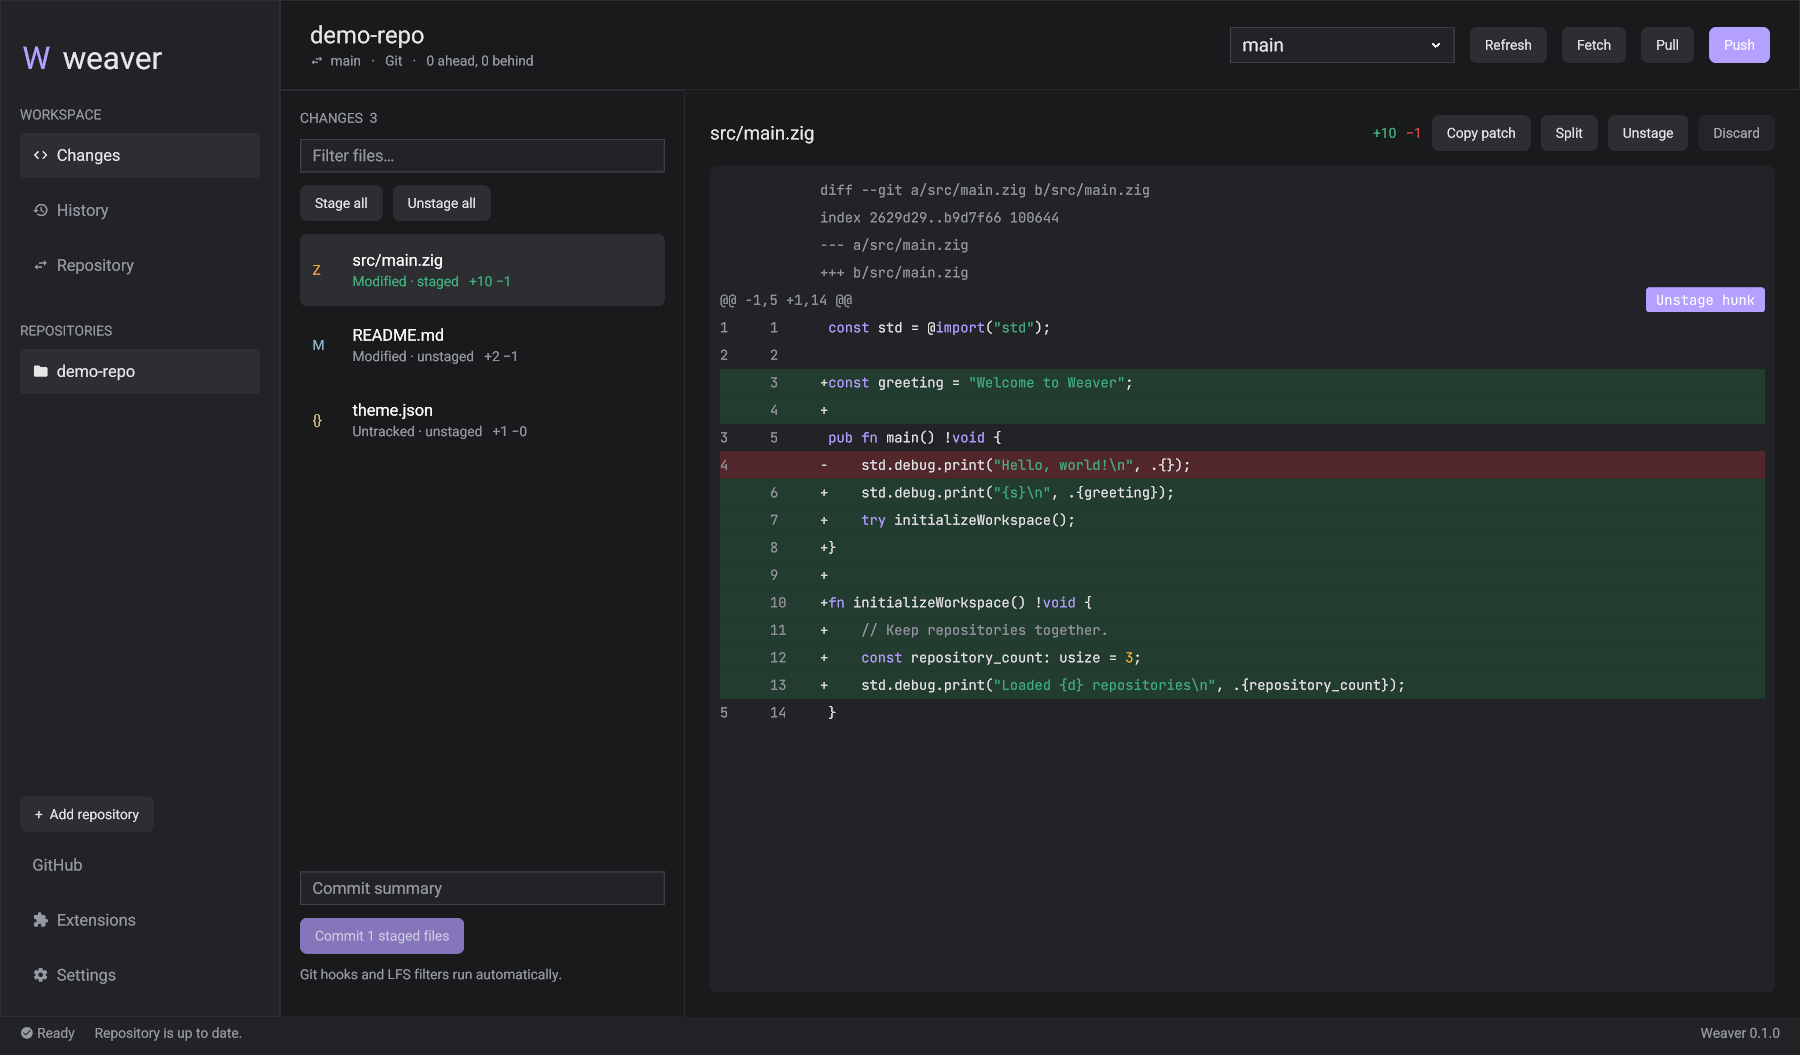
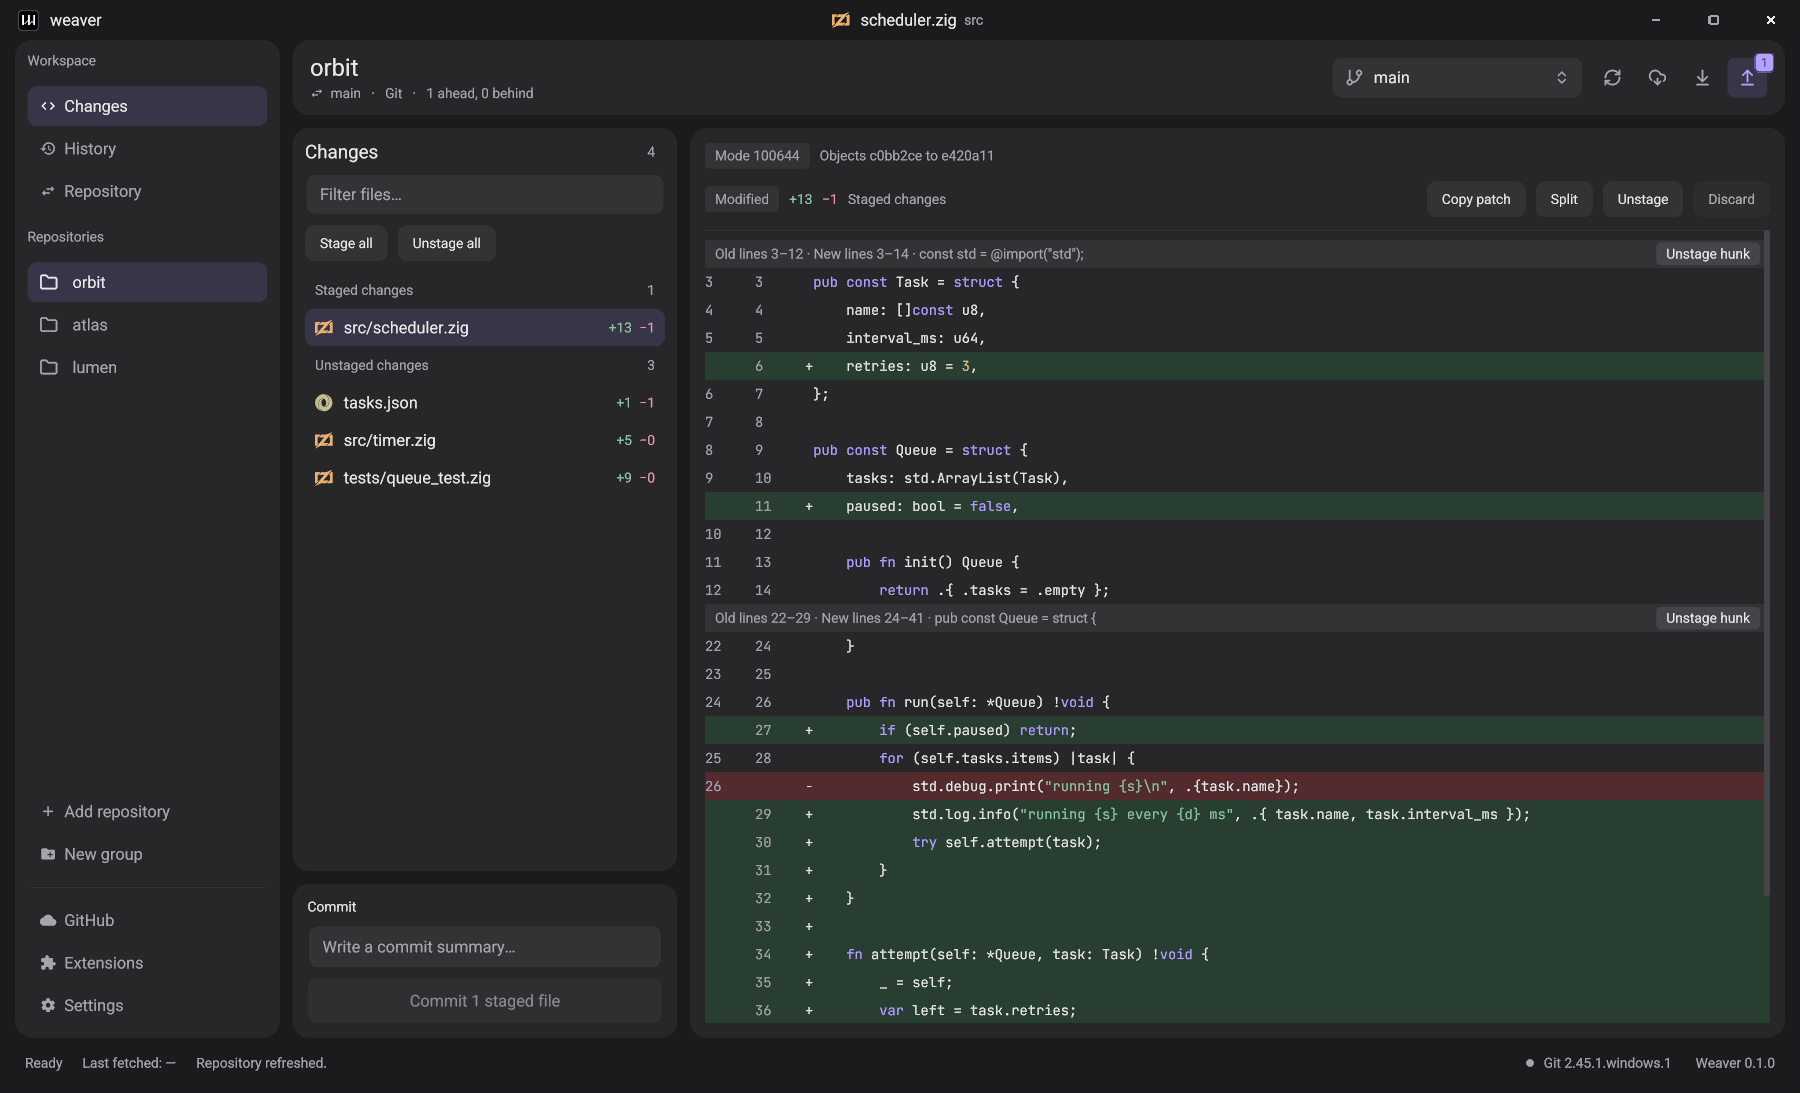
readme update and build actions

diff --git a/README.md b/README.md
@@ -1,62 +1,198 @@
 # Weaver
 
-A native version-control desktop app written in **Zig**, using **KnotsUI** for the entire interface and **libgit2** for repository metadata, history and committed diffs, with Git providing filter-aware working-tree reads. Git is the first provider behind a provider-neutral UI model. No webview or Monaco editor.
+Weaver is a fast, native Git desktop app for Windows, macOS and Linux. It is written in Zig with [KnotsUI](https://github.com/knots-ui/knots) and [libgit2](https://libgit2.org), so there is no webview or Electron runtime: one small executable that opens instantly and stays out of your way.
 
-**Development preview.** The Windows release-safety build and native screens have been checked locally. Production signing, hosted updates and macOS/Linux runtime validation remain outstanding.
+![Weaver showing staged and unstaged changes beside a highlighted diff](docs/screenshots/changes.png)
 
-## Windows preview
+[![Latest build](https://img.shields.io/github/release-date/KeoneSomers/Weaver?label=latest%20build)](https://github.com/KeoneSomers/Weaver/releases/latest)
+[![Downloads](https://img.shields.io/github/downloads/KeoneSomers/Weaver/total)](https://github.com/KeoneSomers/Weaver/releases)
+[![Build and test](https://github.com/KeoneSomers/Weaver/actions/workflows/ci.yml/badge.svg)](https://github.com/KeoneSomers/Weaver/actions/workflows/ci.yml)
+[![License: MIT](https://img.shields.io/github/license/KeoneSomers/Weaver)](LICENSE)
+[![Last commit](https://img.shields.io/github/last-commit/KeoneSomers/Weaver)](https://github.com/KeoneSomers/Weaver/commits/main)
+[![Commit activity](https://img.shields.io/github/commit-activity/m/KeoneSomers/Weaver)](https://github.com/KeoneSomers/Weaver/graphs/commit-activity)
+[![Contributors](https://img.shields.io/github/contributors/KeoneSomers/Weaver)](https://github.com/KeoneSomers/Weaver/graphs/contributors)
+[![Stars](https://img.shields.io/github/stars/KeoneSomers/Weaver)](https://github.com/KeoneSomers/Weaver/stargazers)
+[![Open issues](https://img.shields.io/github/issues/KeoneSomers/Weaver)](https://github.com/KeoneSomers/Weaver/issues)
+[![Top language](https://img.shields.io/github/languages/top/KeoneSomers/Weaver)](https://github.com/KeoneSomers/Weaver)
+[![Code size](https://img.shields.io/github/languages/code-size/KeoneSomers/Weaver)](https://github.com/KeoneSomers/Weaver)
+![Zig 0.17.0](https://img.shields.io/badge/Zig-0.17.0-f7a41d?logo=zig&logoColor=white)
+![Platforms](https://img.shields.io/badge/platforms-Windows%20%7C%20macOS%20%7C%20Linux-blue)
 
-Extract `dist/Weaver-0.1.0-preview-windows-x86_64.zip` and run `weaver.exe` inside its folder. Install Git, Git LFS and curl, then add a repository in Weaver. This portable preview is unsigned; the release pipeline and stable installer bootstrap need your signing and GitHub configuration before public distribution.
+> **Development preview.** Weaver is usable day to day but still young. Windows is the most tested platform; macOS and Linux build from the same source and have had less testing. Please [open an issue](https://github.com/KeoneSomers/Weaver/issues) if something does not work on your machine.
 
-## Build
+## Download
 
-Requires Zig **0.17.0**. KnotsUI, libgit2 **1.9.7**, Native File Dialog Extended **1.4.1** and their dependencies are pinned in `build.zig.zon`; `zig build` fetches them and compiles libgit2 and the file dialog from source into a self-contained executable. Knots follows Zig development; keep the compiler and library revisions together. Update a dependency with `zig fetch --save=<name> <url>`.
+These links always point at the newest build; the [latest release](https://github.com/KeoneSomers/Weaver/releases/latest) is rebuilt automatically for every change on `main`.
+
+| Platform | Download | How to run |
+| --- | --- | --- |
+| Windows (x64) | [`Weaver-windows-x86_64.zip`](https://github.com/KeoneSomers/Weaver/releases/latest/download/Weaver-windows-x86_64.zip) | Extract the folder and run `weaver.exe`. |
+| macOS (Apple Silicon) | [`Weaver-macos-aarch64.dmg`](https://github.com/KeoneSomers/Weaver/releases/latest/download/Weaver-macos-aarch64.dmg) | Open the disk image and drag Weaver to Applications. |
+| macOS (Intel) | [`Weaver-macos-x86_64.dmg`](https://github.com/KeoneSomers/Weaver/releases/latest/download/Weaver-macos-x86_64.dmg) | Open the disk image and drag Weaver to Applications. |
+| Linux (x64, Wayland) | [`Weaver-linux-x86_64.tar.gz`](https://github.com/KeoneSomers/Weaver/releases/latest/download/Weaver-linux-x86_64.tar.gz) | Extract and run `bin/weaver`. |
+
+The downloads are not code-signed yet, so your system will warn you the first time:
+
+- **Windows:** on the SmartScreen prompt choose **More info**, then **Run anyway**.
+- **macOS:** after the first blocked launch, open **System Settings → Privacy & Security** and choose **Open Anyway**, or run `xattr -dr com.apple.quarantine /Applications/Weaver.app`.
+
+Weaver uses the Git you already have installed, so install [Git](https://git-scm.com/downloads) first (and Git LFS for repositories that use it). Linux also needs a Wayland session, a Vulkan 1.3 driver and `xdg-desktop-portal`; the build is made on Ubuntu 24.04, so older distributions may need to build from source. `SHA256SUMS.txt` in the release lists the checksums.
+
+## Features
+
+**Repositories**
+
+- Add, initialize or clone repositories, or drag a folder into the window. Linked worktrees open directly.
+- Keep many repositories in the sidebar, reorder them and sort them into groups.
+- Sign in to GitHub in one click through Git Credential Manager and clone your public or private repositories over HTTPS or SSH.
+
+**Changes and diffs**
+
+- Staged and unstaged changes in separate lists, with file-type icons and added/removed line counts.
+- Syntax-highlighted diffs in unified or side-by-side view.
+- Stage or unstage whole files, single hunks or everything at once, then commit.
+- Right-click a file to open it in your editor, reveal its folder, copy its path, add it to `.gitignore`, or discard its changes (with confirmation).
+
+![Side-by-side diff view](docs/screenshots/split.png)
+
+**Branches and history**
+
+- Create, switch, publish and delete branches from a native branch picker.
+- Fetch, pull and push from the toolbar, with badges showing how many commits you are ahead or behind.
+- Merge, rebase, cherry-pick, revert, stash and tag.
+- Browse commit history and each commit's diff.
+- Resolve conflicts in the app: inspect the markers, keep either side, then continue or abort.
+
+**Guidance when things go wrong**
+
+- A repository without a remote gets a banner and a dialog that adds `origin` and pushes straight away.
+- A failed push, pull, fetch or clone opens a dialog with Git's output and the next step to take.
+
+**Git LFS**
+
+- Set up LFS, track file types, and view transfers, status and locks.
+
+**Look and feel**
+
+- Eleven themes, eight dark and three light, with twelve accent colors.
+- Resizable panels and a custom title bar.
+- Optional background fetch every five minutes, off by default.
+
+**Extensions**
+
+- Add commands and settings with small executables that speak JSON over standard input and output, written in any language. See the [extension API](docs/extensions.md).
+
+**Safe by design**
+
+- Git commands are passed as argument arrays; repository content is never interpreted by a shell.
+- Credentials stay in the operating system's credential store, never in settings or remote URLs.
+- Your Git hooks, commit signing and LFS filters keep working because Weaver uses your Git configuration.
+- Weaver never force-pushes, hard-resets or deletes untracked files on its own, and destructive actions ask first.
+
+## Build from source
+
+The only build tool you need is **Zig 0.17.0**. Everything else (KnotsUI, libgit2, the native file dialog) is pinned in `build.zig.zon`; `zig build` downloads and compiles it for you. The first build takes a couple of minutes.
 
 ```sh
-zig build
+git clone https://github.com/KeoneSomers/Weaver.git
+cd Weaver
 zig build run
 ```
 
-Linux additionally needs `pkg-config`, `wayland-scanner`, and the development packages for Wayland, `wayland-protocols`, xkbcommon and D-Bus. Running Weaver needs a Wayland session, a desktop portal with a FileChooser backend, and a Vulkan 1.3 driver. macOS uses WebGPU.
+To build an optimized executable instead, run `zig build -Doptimize=ReleaseSafe`. The result is `zig-out/bin/weaver` (`weaver.exe` on Windows). Pass a folder to open it on launch: `zig-out/bin/weaver /path/to/repository`.
 
-Runtime requirements: Git, curl, and Git LFS for LFS repositories. Existing Git credential helpers, SSH configuration and agents remain available. GitHub sign-in needs Git Credential Manager, which Git for Windows includes; install it separately on macOS and Linux. Linux secure GitHub storage requires `secret-tool`. Tokens never go in settings or remote URLs.
+Weaver needs the exact Zig version above, because KnotsUI tracks Zig closely. Get it from [ziglang.org/download](https://ziglang.org/download/) or with a version manager such as [zvm](https://github.com/tristanisham/zvm) (`zvm install 0.17.0`).
 
-```text
-zig build test -Dheadless=true
-zig build test-ui
-zig build check -Dheadless=true
+At run time Weaver uses the **Git** you already have installed, plus **curl**, and **Git LFS** for repositories that use it.
+
+### Windows
+
+1. Install [Git for Windows](https://git-scm.com/download/win). It includes Git LFS, curl and Git Credential Manager.
+2. Install Zig 0.17.0.
+3. Run `zig build run` in the cloned folder.
+
+No Visual Studio or other compiler is needed.
+
+### macOS
+
+1. Install the Xcode Command Line Tools, which provide Git and the system frameworks:
+
+   ```sh
+   xcode-select --install
+   ```
+
+2. Install Zig 0.17.0.
+3. Run `zig build run` in the cloned folder.
+
+Optional: `brew install git-lfs` for LFS repositories, and `brew install --cask git-credential-manager` for one-click GitHub sign-in.
+
+### Linux
+
+Weaver needs a **Wayland** session (KnotsUI has no X11 backend yet), a **Vulkan 1.3** driver, and a desktop portal with a file chooser (`xdg-desktop-portal`, which GNOME and KDE install by default).
+
+1. Install the build packages for your distribution:
+
+   ```sh
+   # Debian, Ubuntu
+   sudo apt install git git-lfs curl pkg-config libwayland-dev wayland-protocols libxkbcommon-dev libdbus-1-dev libvulkan1
+   ```
+
+   ```sh
+   # Fedora
+   sudo dnf install git git-lfs curl pkgconf-pkg-config wayland-devel wayland-protocols-devel libxkbcommon-devel dbus-devel vulkan-loader
+   ```
+
+   ```sh
+   # Arch
+   sudo pacman -S --needed git git-lfs curl pkgconf wayland wayland-protocols libxkbcommon dbus vulkan-icd-loader
+   ```
+
+2. Install Zig 0.17.0.
+3. Run `zig build run` in the cloned folder.
+
+`zig build` also installs a desktop entry and icons under `zig-out/share`. Optional: install [Git Credential Manager](https://github.com/git-ecosystem/git-credential-manager/blob/main/docs/install.md) and `secret-tool` (`libsecret-tools` on Debian and Ubuntu) for one-click GitHub sign-in.
+
+### Troubleshooting
+
+- **Zig reports a version mismatch or unfamiliar compile errors.** Check `zig version` prints `0.17.0`.
+- **A dependency fails to download.** The first build needs network access to GitHub and gitlab.freedesktop.org. Run `zig build` again to retry.
+- **Linux: `wayland-scanner` or a `.pc` file is not found.** One of the packages above is missing.
+- **Linux: the window does not open.** Check you are in a Wayland session (`echo $XDG_SESSION_TYPE`) and that `vulkaninfo` reports Vulkan 1.3.
+
+## Development
+
+```sh
+zig build test -Dheadless=true   # backend tests: Git, diffs, security, persistence
+zig build test-ui                # pointer routing tests
+zig build check -Dheadless=true  # build the headless inspector
 zig-out/bin/weaver-check /absolute/path/to/repository
 ```
 
-## Workflows
+`-Dheadless=true` skips the UI, so backend tests run without a display or GPU. Update a pinned dependency with `zig fetch --save=<name> <url>`.
 
-- Add, initialize or clone repositories; switch between multiple folders; drag a folder into the app. Choosing or dropping an existing repository opens it directly with its configured remotes, including linked worktrees; folders without a repository show initialization and clone options.
-- Native folder pickers for repository/clone locations, a JSON file picker for extension manifests, and file/folder pickers for path-based repository tools. Paths remain editable; cancelling preserves the previous value. Tool selections outside the current repository are rejected.
-- Associate remotes using repository tools; clone GitHub public/private repositories with HTTPS or SSH.
-- View staged and unstaged changes separately, file-type symbols, addition/deletion counts, highlighted unified diffs and commit history.
-- Long change paths and project names truncate with an ellipsis; hover to see the full text. Right-click changes to view, stage/unstage, copy paths, open the file in the operating system's default text editor, open the containing folder, add the file, its folder or its file type to the root `.gitignore`, or discard tracked edits with confirmation. Right-click projects to open/refresh, open the folder or remote in a browser, copy the path, move the entry up, down, to the top or to the bottom of the list, or remove the workspace entry while keeping files on disk. Menu rows carry Lucide icons; discard and remove are shown in red.
-- Switch between unified and side-by-side diffs; stage/unstage individual hunks, files or all changes; commit the staged set. Git identity, hooks, signing and LFS filters use your Git configuration.
-- Compact Lucide toolbar buttons for refresh, fetch, pull and push, with full labels on hover and keyboard focus. Push and Pull highlight only when the current branch is ahead of or behind its upstream, with commit-count badges; zero counts stay hidden. Fetch, fast-forward pull, push, publish branches; create/switch/delete branches; merge, rebase, continue/abort; stash/pop; tag/delete; revert/cherry-pick; discard tracked edits with confirmation.
-- Guided setup: a repository without a remote shows its local commit count on Push and a banner with a Connect a remote dialog, which adds `origin` and can push straight away. Push on a branch without an upstream publishes it. Failed push, pull, fetch, clone and remote setup open a dialog with Git's output and the next step. A workspace folder that is no longer a repository reopens the add dialog with Initialize and Clone.
-- One-click GitHub sign-in through Git Credential Manager (included with Git for Windows), with no OAuth app or token to create. Weaver remembers the account in the OS credential store and lists your repositories. Builds given `-Doauth-client-id` use GitHub's device flow instead.
-- LFS setup, tracking, transfers, status and locks. The provider reconciles externally filtered file status through Git to avoid treating hydrated LFS files as modified.
-- Rounded island workspace, five themes and a custom accent; offline Devicon file-type icons, persisted workspace/settings and bundled/installable extensions.
-- Native branch picker and conflict recovery: inspect conflict markers, keep either side, stage edited resolutions, then continue or abort merges, rebases and cherry-picks.
-- Automatic local refresh on the Changes page, preserving file selection. Optional background fetch of the current repository every five minutes, enabled in Settings and off by default, updates incoming commit counts without pulling or changing working files. The footer shows the relative time of the last successful fetch in Weaver, saved per repository; failed attempts do not advance it. Optional automatic signed-update checks on launch.
-- Signed release manifests and verified update downloads; fixed installer identity and a stable Windows bootstrap.
+Settings are stored in `%APPDATA%\Weaver` on Windows and `~/.config/Weaver` on macOS and Linux. Set `WEAVER_CONFIG_HOME` to use a different folder, which is handy for trying things without touching your real workspace.
 
-Repository writes run in a serialized background queue. Opening and switching show animated loading feedback. File status appears before background line counts; only the selected working-tree diff is loaded, and long file lists render visible rows. You can switch repositories during a status scan; outdated scan, count and preview results are discarded. Writes stay disabled during a repository scan or another write. Git arguments are passed as arrays; repository content is never interpolated into a shell command. The app does not force-push, delete untracked files or hard-reset repositories automatically.
+More documentation:
 
-## Current boundaries
+- [Extension API](docs/extensions.md)
+- [Repository performance](docs/performance.md)
+- [Releases, signing and updates](docs/releases.md)
+- [Application icon](docs/icons.md)
 
-This is an initial implementation undergoing validation, **not a certified production-ready or GitHub Desktop parity release**. Remaining parity work includes selected-line staging, image diffs, richer conflict editing, PR creation/review, submodule/worktree management, full history pagination (currently 300 commits), native filesystem watching (refresh currently polls), extension marketplace/package installation, and automatic platform update replacement/rollback. Some advanced operations share a tools form rather than purpose-built dialogs. Only Git is registered; the provider interface and extension requests keep provider IDs explicit. Knots currently has no X11 backend or complex text shaping/IME composition. Individual working-tree text previews are limited to 2 MiB and 25,000 lines.
+## Current limitations
 
-Local validation: 25 release-safety backend tests cover native snapshots, unborn repositories, real LFS pointer/filter behavior, partial staging, renames, merge conflict recovery, Unicode paths and missing final newlines, large-file statistics, relative/absolute workspace path deduplication, native-picker path validation, progressive status/count/preview reads, NUL-delimited rename parsing, extension validation, OAuth request construction, credential-host isolation and signed-update tampering. The compiled external Zig example was run through Weaver's extension host. Native Windows previews checked changes, unified/split diffs, themes/settings, extension management and live background refresh. Native Windows dialog checks covered in-app folder selection, cancellation, extension-manifest browsing, and standalone Unicode folder/file selection. These checks do not prove real GitHub sign-in, network LFS transfers, installer upgrades or other operating systems.
+- Downloads are not code-signed, and there is no installer or automatic update yet.
+- Linux needs Wayland; there is no X11 backend.
+- No complex text shaping or IME composition yet.
+- History shows the latest 300 commits.
+- Text previews are limited to 2 MiB and 25,000 lines; there are no image diffs.
+- Not yet available: staging selected lines, pull request creation and review, submodule and worktree management, and an extension marketplace.
+- Git is the only provider, although the UI model is provider-neutral.
 
-Large-repository measurements and the progressive loading design are in [repository performance](docs/performance.md).
+## License
 
-See [extension API](docs/extensions.md) and [signing/release setup](docs/releases.md). Release endpoints are intentionally unconfigured until you create the GitHub repository; an OAuth app is optional. Release signing needs your own validated credentials.
+Weaver is released under the [MIT License](LICENSE).
 
-## Third-party notices
+## Third-party software
 
-KnotsUI and the embedded Devicon v2.17.0 file icon font are MIT licensed. libgit2 is GPLv2 with a linking exception. The embedded JetBrains Mono font is licensed under the SIL Open Font License. See `THIRD_PARTY_NOTICES.md`, `assets/Devicon-LICENSE.txt` and `assets/OFL.txt`. Weaver's own distribution license should be chosen by the project owner before publishing.
+KnotsUI and the Devicon icon font are MIT licensed, Lucide icons are ISC, JetBrains Mono uses the SIL Open Font License, Native File Dialog Extended uses the zlib license, and libgit2 is GPLv2 with a linking exception. Details are in [THIRD_PARTY_NOTICES.md](THIRD_PARTY_NOTICES.md), and `zig build` copies the license texts into `zig-out/licenses`.

diff --git a/docs/releases.md b/docs/releases.md
@@ -1,6 +1,6 @@
 # Releases and updates
 
-> The GitHub Actions workflows (`.github/workflows/ci.yml` and `release.yml`) have been removed, so pushes and tags no longer build anything. The pipeline described below is the design to restore from Git history when automated releases are wanted.
+> `.github/workflows/ci.yml` builds and tests every push and pull request on Windows, macOS and Linux. Every push to `main` also replaces a single unsigned rolling GitHub release (tag `rolling`, titled `Weaver <version>-build.<run number>`), with a Windows zip, macOS disk images for Apple Silicon and Intel, a Linux tarball and `SHA256SUMS.txt`. The version comes from `build.zig.zon`. The signed release workflow (`release.yml`) has been removed; the signing, installer and update-manifest pipeline described below is the design to restore from Git history when signed releases are wanted.
 
 Create a GitHub repository and enable Actions. Protect the `release` environment and set these public variables:
 

diff --git a/THIRD_PARTY_NOTICES.md b/THIRD_PARTY_NOTICES.md
@@ -8,4 +8,4 @@
 - [Native File Dialog Extended](https://github.com/btzy/nativefiledialog-extended/tree/v1.4.1), zlib license. Installed as `licenses/NativeFileDialog.txt`.
 - Knots dependencies include AccessKit, Vulkan bindings/headers, TrueType, zig-objc, wgpu and Windows bindings. The release pipeline collects downloaded dependency license texts with `scripts/collect-licenses.py` and includes them in installer bundles.
 
-Before publishing, choose Weaver's application license and publish the reproducible source/build information for libgit2. libgit2 v1.9.7 source is available at https://github.com/libgit2/libgit2/tree/v1.9.7; `build/libgit2.zig` documents its build options.
+Weaver itself is MIT licensed; see `LICENSE`. libgit2 v1.9.7 source is available at https://github.com/libgit2/libgit2/tree/v1.9.7; `build/libgit2.zig` documents its build options.
